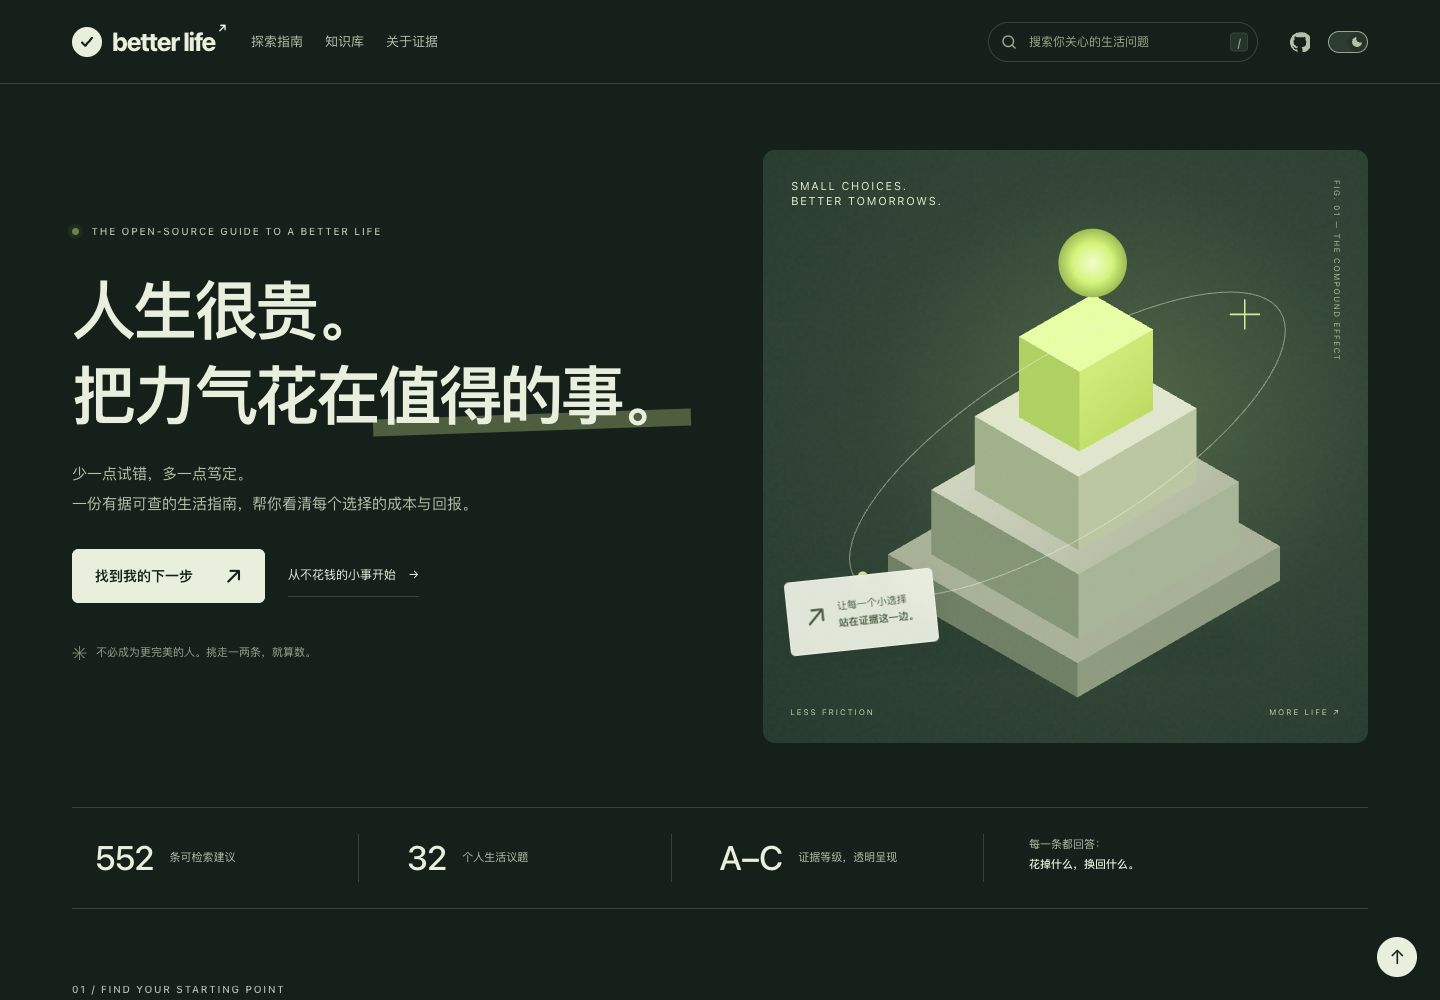
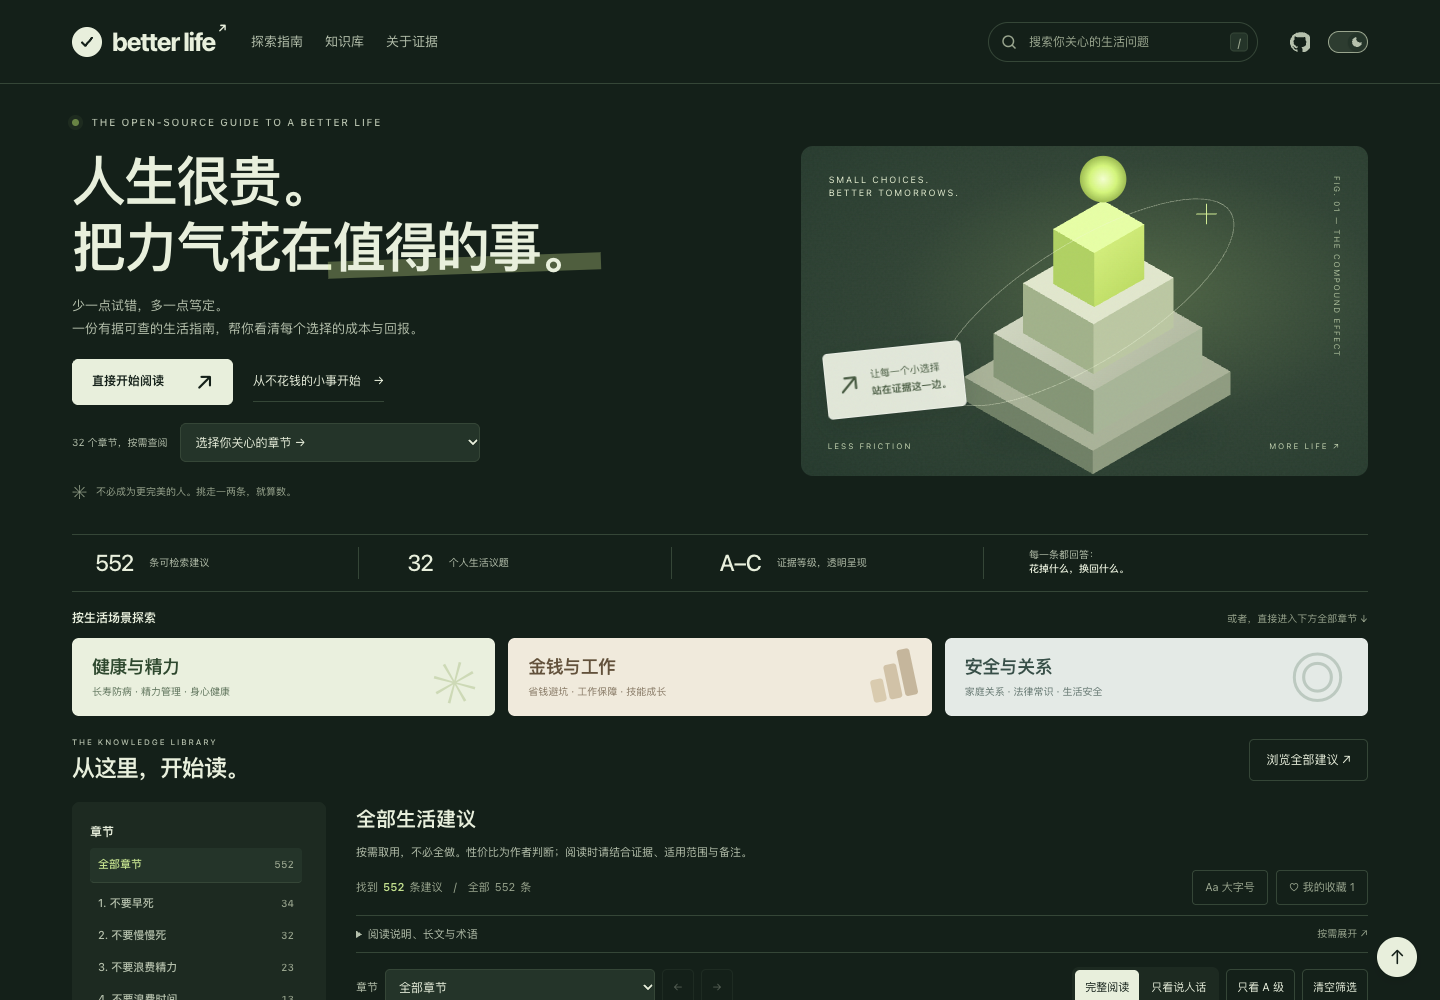
feat: 前置章节入口并精简首页阅读动线

diff --git a/index.html b/index.html
@@ -267,6 +267,12 @@ html{scroll-behavior:smooth;scroll-padding-top:104px}body{font-size:14px}button,
 #chapter-index{margin:18px 0;border:1px solid var(--divider);border-radius:7px;padding:12px 16px;font-size:12px}#chapter-index summary{cursor:pointer;color:var(--t1)}#index-count{color:var(--t3);margin-left:8px}#chapter-index nav{display:grid;grid-template-columns:1fr 1fr;gap:6px 20px;max-height:300px;overflow:auto;padding-top:14px}#chapter-index a{padding:6px 0;font-size:12px}.entry-expand{display:none}.brief-reading .entry-expand{display:block;font-size:11px;color:var(--brand-1);padding:8px 0}.brief-reading .card:not(.entry-open) .rows,.brief-reading .card:not(.entry-open) .src{display:none}.brief-reading .card .human{margin-bottom:4px}.brief-reading .card .badge.plain{display:none}.brief-reading .sec-block>.intro{display:none}.brief-reading .card{contain-intrinsic-size:auto 220px}.card,.sec-block{scroll-margin-top:160px}
 @media(max-width:640px){.reading-tools{gap:10px;padding:10px 0}.chapter-controls{width:100%;min-width:0}.chapter-controls select{max-width:none}.reading-switches{width:100%;justify-content:space-between;gap:4px}.reading-tools button{font-size:10px;padding:8px}.segmented{gap:0;padding:2px}#chapter-index nav{grid-template-columns:1fr}.card,.sec-block{scroll-margin-top:190px}}
 @media print{.reading-tools,#chapter-index,.entry-expand{display:none!important}.brief-reading .card .rows{display:grid!important}}
+
+/* Compact entry: chapters are available before the first scroll. */
+.hero{padding-top:calc(var(--nav-h) + 30px);padding-bottom:25px;grid-template-columns:1.2fr 1fr;gap:48px;align-items:center}.hero h1{font-size:clamp(38px,3.8vw,54px);line-height:1.22;margin:17px 0 15px;letter-spacing:-2px}.hero-desc{font-size:13px;line-height:1.8;margin-bottom:18px}.hero-art{height:330px;aspect-ratio:auto}.sculpture{top:-7%;height:112%}.art-tag{bottom:64px;padding:8px 12px}.art-caption{font-size:9px}.hero-actions{gap:20px}.primary{padding:12px 20px;font-size:12px}.hero-note{font-size:10px;margin-top:13px}.hero-chapter{display:flex;align-items:center;gap:13px;margin-top:18px}.hero-chapter label{font-size:10px;color:var(--t2);white-space:nowrap}.hero-chapter select{max-width:300px;min-width:0;flex:1;border:1px solid var(--divider);border-radius:6px;color:var(--t1);background:var(--bg-elv);padding:10px;font:inherit;font-size:12px}.proof-strip{padding:12px 0}.proof-strip strong{font-size:23px;white-space:nowrap;flex-shrink:0}.proof-strip span{font-size:10px}.proof-strip .proof-quote{font-size:10px;line-height:1.4}.explore{padding-top:18px;padding-bottom:20px}.section-top{margin-bottom:11px;align-items:center}.section-top h2{font-size:12px;letter-spacing:0;margin:0}.section-top>span{font-size:10px;color:var(--t3)}.path-grid{gap:13px}.path-card{min-height:0;padding:16px 19px;border-radius:7px}.path-top{display:none}.path-card h3{font-size:18px;margin:0 0 5px;line-height:1.35}.path-card p{font-size:10px;margin:0;line-height:1.5}.path-link{display:none}.path-symbol{top:12px;right:17px;opacity:.55}.health-symbol{font-size:61px}.safety-symbol{font-size:65px}.money-symbol{height:48px;gap:3px}.money-symbol i{width:13px;height:23px}.money-symbol i:nth-child(2){height:35px}.money-symbol i:nth-child(3){height:47px}.path-card h3,.path-card p{position:relative;z-index:1}.library-heading{margin-bottom:18px;align-items:center}.library-heading h2{font-size:23px;margin-top:3px}.library-heading .eyebrow{font-size:8px}.library-layout{gap:30px}.reader-title .eyebrow{display:none}.reader-title h2{font-size:20px;margin:0 0 6px}.doc-head .reader-note{font-size:11px}.doc-head{padding-bottom:8px;margin-bottom:0}.doc-head .stat{margin:8px 0}.reading-help{font-size:11px;border-top:1px solid var(--divider);margin-top:10px;padding-top:9px}.reading-help>summary{cursor:pointer;color:var(--t2)}.reading-help>summary span{float:right;font-size:10px;color:var(--t3)}.evidence-help{padding:14px 0 0}.evidence-help>summary{cursor:pointer}.evidence-help .method{margin:12px 0;padding:20px;grid-template-columns:repeat(3,1fr);gap:14px}.evidence-help .method-intro{display:none}.evidence-help .method-item{padding:0 0 0 14px}.evidence-help .method-item>span{font-size:18px}.evidence-help .method-item h3{margin:8px 0;font-size:13px}.evidence-help .method p{font-size:10px}.sidebar{padding:18px;top:calc(var(--nav-h) + 14px)}
+@media(max-width:960px){.hero{gap:24px;padding-top:calc(var(--nav-h) + 24px)}.hero h1{font-size:37px}.hero-art{height:310px}.hero-chapter{display:block}.hero-chapter label{display:none}.hero-chapter select{width:100%;max-width:340px}.path-card h3{font-size:16px}.path-card p{font-size:9px}.path-symbol{opacity:.3}.sidebar{top:var(--nav-h)}}
+@media(max-width:640px){.hero{position:relative;display:block;padding:calc(var(--nav-h) + 24px) 6% 16px}.hero-copy{position:relative;z-index:1}.hero .eyebrow{font-size:7px;letter-spacing:.8px}.hero h1{max-width:230px;font-size:32px;line-height:1.25;margin:17px 0 13px;letter-spacing:-1.5px}.hero-art{position:absolute;right:6%;top:calc(var(--nav-h) + 52px);width:102px;height:130px;border-radius:7px}.hero-art .art-caption,.hero-art .art-index,.hero-art .art-tag,.hero-art .art-bottom{display:none}.hero-art .sculpture{width:140%;left:-20%;top:-2%;height:110%}.hero-desc{font-size:12px;line-height:1.7;margin-bottom:15px;max-width:100%}.hero-actions{gap:13px;flex-wrap:nowrap}.primary{padding:11px 14px;font-size:11px;gap:16px}.text-action{font-size:10px}.hero-chapter{margin-top:14px}.hero-chapter select{padding:10px;max-width:none}.hero-note{font-size:9px;margin-top:9px}.tiny-mark{font-size:16px}.proof-strip{padding:9px 0;gap:3px}.proof-strip>div{display:flex;gap:6px;padding-left:4px}.proof-strip strong{font-size:21px}.proof-strip span{font-size:8px;line-height:1.4}.explore{padding:15px 6% 17px}.section-top{display:flex;margin-bottom:9px}.section-top h2{font-size:11px}.section-top>span{display:none}.path-grid{grid-template-columns:repeat(3,minmax(0,1fr));gap:7px}.path-card{padding:13px 9px;min-height:72px}.path-card h3{font-size:13px;margin-bottom:5px;letter-spacing:0}.path-card p{font-size:8px;line-height:1.6}.path-symbol{display:none}.library-heading{display:flex;margin-bottom:13px}.library-heading h2{font-size:21px}.library-heading>.outline-button{margin-top:0;font-size:10px;padding:8px}.library-layout{margin:0 6%}.reader-title h2{font-size:18px}.doc-head .stat{font-size:10px;gap:3px}.doc-head .reader-note{font-size:10px}.evidence-help .method{padding:16px;grid-template-columns:1fr}.evidence-help .method-item{border-top:0;display:block;border-left:1px solid #a2b39444}.evidence-help .method-item>span{display:none}}
+@media(max-width:355px){.hero h1{font-size:28px;max-width:200px}.hero-art{width:78px;height:112px}.hero-actions{gap:8px}.text-action{font-size:9px}.primary{padding:10px;font-size:10px}.proof-strip strong{font-size:18px}.path-card{padding:10px 7px}.path-card h3{font-size:11px}}
 </style>
 </head>
 <body>
@@ -330,7 +336,8 @@ html{scroll-behavior:smooth;scroll-padding-top:104px}body{font-size:14px}button,
   <div class="hero-copy"><div class="eyebrow"><span class="live-dot"></span> THE OPEN-SOURCE GUIDE TO A BETTER LIFE</div>
     <h1 id="hero-title">人生很贵。<br>把力气花在<span class="headline-em">值得的事。</span></h1>
     <p class="hero-desc">少一点试错，多一点笃定。<br>一份有据可查的生活指南，帮你看清每个选择的成本与回报。</p>
-    <div class="hero-actions"><a class="primary" href="#explore">找到我的下一步 <span>↗</span></a><button class="text-action" id="easy-start">从不花钱的小事开始 <span>→</span></button></div>
+    <div class="hero-actions"><a class="primary" href="#library">直接开始阅读 <span>↗</span></a><button class="text-action" id="easy-start">从不花钱的小事开始 <span>→</span></button></div>
+    <div class="hero-chapter"><label for="hero-chapter">32 个章节，按需查阅</label><select id="hero-chapter"><option value="">选择你关心的章节 →</option></select></div>
     <div class="hero-note"><span class="tiny-mark">✳</span> 不必成为更完美的人。挑走一两条，就算数。</div>
   </div>
   <div class="hero-art" aria-hidden="true">
@@ -349,14 +356,14 @@ html{scroll-behavior:smooth;scroll-padding-top:104px}body{font-size:14px}button,
   </div>
 </section>
 <div class="proof-strip"><div><strong id="hero-total">—</strong><span>条可检索建议</span></div><div><strong>32</strong><span>个人生活议题</span></div><div><strong>A–C</strong><span>证据等级，透明呈现</span></div><div class="proof-quote">每一条都回答：<br><b>花掉什么，换回什么。</b></div></div>
-<section class="explore" id="explore"><div class="section-top"><div><div class="eyebrow">01 / FIND YOUR STARTING POINT</div><h2>此刻，你更关心什么？</h2></div><p>从一个真实问题出发。<br>不用从第一页读到最后一页。</p></div>
+<section class="explore" id="explore"><div class="section-top"><h2>按生活场景探索</h2><span>或者，直接进入下方全部章节 ↓</span></div>
 <div class="path-grid">
-<button class="path-card health" data-path="health"><div class="path-top"><span>01 / HEALTH & ENERGY</span><span class="path-arrow">↗</span></div><div class="path-symbol health-symbol" aria-hidden="true">✳</div><h3>好好生活，<br>先从照顾自己开始。</h3><p>长寿防病 · 精力管理 · 身心健康</p><span class="path-link">探索健康与精力 <span>→</span></span></button>
-<button class="path-card money" data-path="money"><div class="path-top"><span>02 / MONEY & WORK</span><span class="path-arrow">↗</span></div><div class="path-symbol money-symbol" aria-hidden="true"><i></i><i></i><i></i></div><h3>让辛苦赚的钱，<br>留下更多。</h3><p>省钱避坑 · 工作保障 · 技能成长</p><span class="path-link">探索金钱与工作 <span>→</span></span></button>
-<button class="path-card safety" data-path="safety"><div class="path-top"><span>03 / SAFETY & CONNECTION</span><span class="path-arrow">↗</span></div><div class="path-symbol safety-symbol" aria-hidden="true">◎</div><h3>重要的人和事，<br>值得多一份准备。</h3><p>家庭关系 · 法律常识 · 生活安全</p><span class="path-link">探索安全与关系 <span>→</span></span></button>
+<button class="path-card health" data-path="health"><div class="path-top"><span>01 / HEALTH & ENERGY</span><span class="path-arrow">↗</span></div><div class="path-symbol health-symbol" aria-hidden="true">✳</div><h3>健康与精力</h3><p>长寿防病 · 精力管理 · 身心健康</p><span class="path-link">探索健康与精力 <span>→</span></span></button>
+<button class="path-card money" data-path="money"><div class="path-top"><span>02 / MONEY & WORK</span><span class="path-arrow">↗</span></div><div class="path-symbol money-symbol" aria-hidden="true"><i></i><i></i><i></i></div><h3>金钱与工作</h3><p>省钱避坑 · 工作保障 · 技能成长</p><span class="path-link">探索金钱与工作 <span>→</span></span></button>
+<button class="path-card safety" data-path="safety"><div class="path-top"><span>03 / SAFETY & CONNECTION</span><span class="path-arrow">↗</span></div><div class="path-symbol safety-symbol" aria-hidden="true">◎</div><h3>安全与关系</h3><p>家庭关系 · 法律常识 · 生活安全</p><span class="path-link">探索安全与关系 <span>→</span></span></button>
 </div></section>
-<section class="method" id="method"><div class="method-intro"><div class="eyebrow">A LITTLE CLARITY GOES A LONG WAY</div><h2>好的建议，<br>经得起追问。</h2><p>保留原文、研究出处与不确定性。<br>把判断权交还给你。</p></div><div class="method-item"><span>01</span><h3>先看成本</h3><p>钱、时间、毅力。<br>看清投入，再决定是否开始。</p></div><div class="method-item"><span>02</span><h3>再看收益</h3><p>不同收益口径分别看待。<br>寿命、金钱、时间不互相换算。</p></div><div class="method-item"><span>03</span><h3>追溯证据</h3><p>A / B / C 分级与原始出处。<br>争议和待核实内容明确标注。</p></div></section>
-<div class="library-heading" id="library"><div><div class="eyebrow">02 / THE KNOWLEDGE LIBRARY</div><h2>给生活，一份可查的底气。</h2></div><button class="outline-button" id="clear-top">浏览全部建议 ↗</button></div>
+
+<div class="library-heading" id="library"><div><div class="eyebrow">THE KNOWLEDGE LIBRARY</div><h2>从这里，开始读。</h2></div><button class="outline-button" id="clear-top">浏览全部建议 ↗</button></div>
 <div class="library-layout">
 <div class="backdrop" id="backdrop"></div>
 <div class="pop" id="pop" role="tooltip" hidden><b></b><span></span></div>
@@ -432,8 +439,9 @@ html{scroll-behavior:smooth;scroll-padding-top:104px}body{font-size:14px}button,
       <div class="reader-title"><div><span class="eyebrow">YOUR PERSONAL FIELD GUIDE</span><h2 id="reading-title">全部生活建议</h2></div><button class="outline-button filter-mobile" id="mobile-filter">筛选 ☷</button></div>
       <p class="reader-note">按需取用，不必全做。性价比为作者判断；阅读时请结合证据、适用范围与备注。</p>
       <div class="stat" aria-live="polite">找到 <b id="cnt">–</b> 条建议 <span class="stat-divider">/</span> 全部 <span id="tot">–</span> 条 <button id="text-size" aria-pressed="false" title="切换大字号">Aa 大字号</button><button id="saved-filter" aria-pressed="false">♡ 我的收藏 <span id="saved-count">0</span></button></div>
+      <details class="reading-help"><summary>阅读说明、长文与术语 <span>按需展开 ↗</span></summary><details class="evidence-help" id="method"><summary>如何理解成本、收益和证据？</summary><section class="method"><div class="method-intro"><div class="eyebrow">A LITTLE CLARITY GOES A LONG WAY</div><h2>好的建议，<br>经得起追问。</h2><p>保留原文、研究出处与不确定性。<br>把判断权交还给你。</p></div><div class="method-item"><span>01</span><h3>先看成本</h3><p>钱、时间、毅力。<br>看清投入，再决定是否开始。</p></div><div class="method-item"><span>02</span><h3>再看收益</h3><p>不同收益口径分别看待。<br>寿命、金钱、时间不互相换算。</p></div><div class="method-item"><span>03</span><h3>追溯证据</h3><p>A / B / C 分级与原始出处。<br>争议和待核实内容明确标注。</p></div></section></details>
       <div class="doc-links">长文：<a href="https://github.com/JackyMe/how-to-live-better/blob/main/docs/%E9%81%87%E5%88%B0%E9%99%8C%E7%94%9F%E4%BA%BA%E5%87%BA%E4%BA%8B%E8%AF%A5%E4%B8%8D%E8%AF%A5%E5%81%9C.md">遇到陌生人出事该不该停</a> · <a href="https://github.com/JackyMe/how-to-live-better/blob/main/docs/%E5%AE%B6%E5%BA%AD%E5%BA%94%E6%80%A5%E8%A3%85%E5%A4%87%E6%B8%85%E5%8D%95.md">家庭应急装备清单</a> · <a href="https://github.com/JackyMe/how-to-live-better/blob/main/docs/%E7%BB%93%E5%A9%9A%E5%88%92%E4%B8%8D%E5%88%92%E7%AE%97.md">结婚划不划算</a> · <a href="https://github.com/JackyMe/how-to-live-better/blob/main/docs/%E5%81%9A%E5%B9%B3%E5%8F%B0%E8%A6%81%E5%8A%9E%E5%93%AA%E4%BA%9B%E8%AF%81.md">做平台要办哪些证</a> · <a href="https://github.com/JackyMe/how-to-live-better/tree/main/docs/%E6%A0%B8%E5%AE%9E%E8%AE%B0%E5%BD%95">来源核实记录</a></div>
-      <details class="gloss" id="gloss"><summary>看不懂的缩写和名词</summary><p>正文里带虚线的词，点一下或把鼠标放上去就有解释。全表如下。</p><dl></dl></details>
+      <details class="gloss" id="gloss"><summary>看不懂的缩写和名词</summary><p>正文里带虚线的词，点一下或把鼠标放上去就有解释。全表如下。</p><dl></dl></details></details>
     </div>
     <div class="reading-tools" aria-label="阅读工具">
       <div class="chapter-controls"><label for="chapter-select">章节</label><select id="chapter-select"><option value="">全部章节</option></select><button id="chapter-prev" aria-label="上一章" title="上一章">←</button><button id="chapter-next" aria-label="下一章" title="下一章">→</button></div>
@@ -944,7 +952,7 @@ function build(sections){
     list.appendChild(block);
     BLOCKS.push({n:s.n, el:block, k:block.querySelector('.shown .k')});
   }
-  for (const sec of sections) {const opt=document.createElement('option');opt.value=sec.n;opt.textContent=sec.n+'. '+sec.title;document.getElementById('chapter-select').appendChild(opt);}
+  for (const sec of sections) {const opt=document.createElement('option');opt.value=sec.n;opt.textContent=sec.n+'. '+sec.title;document.getElementById('chapter-select').appendChild(opt);document.getElementById('hero-chapter').appendChild(opt.cloneNode(true));}
   document.getElementById('tot').textContent = CARDS.length; document.getElementById('hero-total').textContent = CARDS.length; document.getElementById('saved-count').textContent = saved.size;
 }
 function buildGlossary(){
@@ -1039,6 +1047,7 @@ function syncReadingTools(){
   if(state.sec.size>1&&!multi){multi=new Option('已选 '+state.sec.size+' 个章节','multi');multi.disabled=true;select.add(multi);}
   if(multi&&state.sec.size<=1)multi.remove();
   select.value=state.sec.size>1?'multi':state.sec.size?[...state.sec][0]:'';
+  document.getElementById('hero-chapter').value=state.sec.size===1?[...state.sec][0]:'';
   const chapters=[...SECS.keys()], i=chapters.indexOf(select.value);
   document.getElementById('chapter-prev').disabled=i<=0;
   document.getElementById('chapter-next').disabled=i<0||i===chapters.length-1;
@@ -1050,6 +1059,8 @@ function syncReadingTools(){
 function wireReadingTools(reset){
   const jump=()=>{apply();document.getElementById('reading-title').scrollIntoView({block:'start'});};
   const select=document.getElementById('chapter-select');
+  document.getElementById('hero-chapter').addEventListener('change',e=>{select.value=e.target.value;select.dispatchEvent(new Event('change'));});
+  document.querySelector('a[href="#method"]').addEventListener('click',()=>{document.querySelector('.reading-help').open=true;document.getElementById('method').open=true;});
   select.addEventListener('change',()=>{state.sec=new Set(select.value?[select.value]:[]);jump();});
   for(const [id,step] of [['chapter-prev',-1],['chapter-next',1]])document.getElementById(id).addEventListener('click',()=>{const keys=[...SECS.keys()],i=keys.indexOf(select.value);if(i<0||!keys[i+step])return;state.sec=new Set([keys[i+step]]);jump();});
   document.getElementById('quick-a').addEventListener('click',()=>{state.grade=state.grade.size===1&&state.grade.has('A')?new Set():new Set(['A']);apply();});
